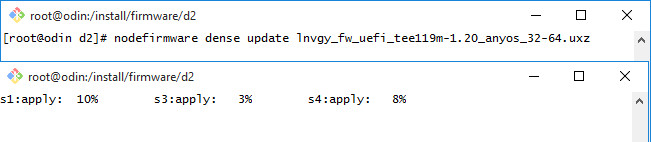
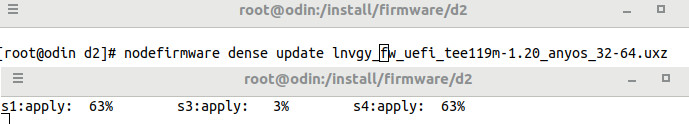
Add some content for the recent function

diff --git a/_posts/2017-10-10-17erelease.md b/_posts/2017-10-10-17erelease.md
@@ -1,9 +1,110 @@
-
 ---
 layout: post
-title:  Confluent 1.7.0
+title:  Recent Confluent Features
 categories: hpc update
 ---
 
-![firmware updates]: {{ "/assets/firmup.jpg" | absolute_url }}
+Confluent has a new discovery mechanism.  This allows for zero-power xCAT style discovery and configuration of lenovo systems.
 
+New to 1.7.0 is the `nodediscover` command:
+```
+mn10:~ # nodediscover list
+           Node|          Model|         Serial|                                UUID|      Mac Address|        Type|                            Current IP Addresses
+---------------|---------------|---------------|------------------------------------|-----------------|------------|------------------------------------------------
+               |               |               |                                    |08:94:ef:3b:de:d4|  lenovo-smm|               fe80::a94:efff:fe3b:ded4%eth0.103
+           n972|     7X12ABC1WW|       00000972|5d09c001-0015-11e7-ac42-f0b2116de94f|08:94:ef:40:77:91|  lenovo-xcc|                                    10.19.67.204
+           n974|     7X12ABC1WW|       00000974|839ab980-ff3d-11e6-9998-c3776b1f3327|08:94:ef:40:78:81|  lenovo-xcc|                                    10.19.67.206
+           n973|     7X12ABC1WW|       00000973|5b767e21-0224-11e7-b141-e0d42e02a772|08:94:ef:40:79:35|  lenovo-xcc|                                    10.19.67.205
+               |     7X12ABC1WW|       00000971|aee7ccee-00cd-11e7-ab9a-f6503ce8c5f9|08:94:ef:40:79:91|  lenovo-xcc|                                    10.19.67.203
+           n881|     7X2106Z000|       00000881|4f2b8ff7-0329-11e7-8af9-e9166c58475d|08:94:ef:40:86:a8|  lenovo-xcc|                                    10.19.67.113
+           n875|     7X2106Z000|       00000875|d0c8c6d8-0260-11e7-9f49-c74a3f22502e|08:94:ef:40:86:b9|  lenovo-xcc|                                    10.19.67.107
+           n879|     7X2106Z000|       00000879|418420a7-0264-11e7-9abe-9abc80ea0f53|08:94:ef:40:86:dd|  lenovo-xcc|                                    10.19.67.111
+           n878|     7X2104Z000|       00000878|6ac9fdd8-0277-11e7-a5d0-f6d9cd5bccb1|08:94:ef:40:87:11|  lenovo-xcc|                                    10.19.67.110
+           n887|     7X2104Z000|       00000872|9746b41f-114d-11e7-b026-efba1952ac2a|08:94:ef:40:87:2d|  lenovo-xcc|  10.19.67.104,fe80::a94:efff:fe40:872d%eth0.103
+           n880|     7X2106Z000|       00000880|aa512271-02d5-11e7-87cb-f0f5d95c9267|08:94:ef:40:88:50|  lenovo-xcc|                                    10.20.67.112
+           n873|     7X2104Z000|       00000873|63b2ab2c-031e-11e7-aefe-d8531125e361|08:94:ef:40:88:89|  lenovo-xcc|  10.19.67.105,fe80::a94:efff:fe40:8889%eth0.103
+          n1050|     7X2106Z000|       DG17000A|89c6f82e-032b-11e7-ac1f-8377fd1aa62c|08:94:ef:40:89:09|  lenovo-xcc|               fe80::a94:efff:fe40:8909%eth0.103
+           n882|     7X2104Z000|       00000882|6b09d40e-0304-11e7-af7e-f3663703a759|08:94:ef:40:89:5d|  lenovo-xcc|                                    10.19.67.114
+           n876|     7X2104Z000|       00000876|828a0a32-0358-11e7-a2c7-c0c2c8ac60e5|08:94:ef:40:89:e9|  lenovo-xcc|                                    10.19.67.108
+          n1051|     7X2106Z000|       DG17000B|9ec10203-0261-11e7-aad9-9c80ee2c78c9|08:94:ef:40:8a:39|  lenovo-xcc|               fe80::a94:efff:fe40:8a39%eth0.103
+           n874|     7X2106Z000|       00000874|d43a6361-033e-11e7-8d7b-d8e30aa8bc5a|08:94:ef:40:8a:49|  lenovo-xcc|                                    10.19.67.106
+```
+
+The nodediscover command can also perform manual discovery, including import from .csv to assign IP addresses:
+
+```
+Usage: nodediscover [list|assign|rescan] [options]
+
+Options:
+  -h, --help            show this help message and exit
+  -m MODEL, --model=MODEL
+                        Operate with nodes matching the specified model number
+  -s SERIAL, --serial=SERIAL
+                        Operate against the system matching the specified
+                        serial number
+  -u UUID, --uuid=UUID  Operate against the system matching the specified UUID
+  -n NODE, --node=NODE  Operate with the given nodename
+  -e MAC, --ethaddr=MAC
+                        Operate against the system with the specified MAC
+                        address
+  -t TYPE, --type=TYPE  Operate against the system of the specified type
+  -c, --csv             Use CSV formatted output
+  -i IMPORT.CSV, --import=IMPORT.CSV
+                        Import bulk assignment data from given CSV file
+```
+
+
+It is now possible to explore the full mac address and LLDP data of ethernet switches, whether they are related to nodes or not::
+
+```
+/ -> show /networking/macs/by-mac/7c-d3-0a-ce-39-0d
+mac: 7c:d3:0a:ce:39:0d
+possiblenode=""
+ports=[
+ {
+  "switch": "172.16.2.6", 
+  "macsonport": 374, 
+  "port": "Port-Channel65"
+ }, 
+ {
+  "switch": "172.16.2.51", 
+  "macsonport": 367, 
+  "port": "Port-Channel53"
+ }, 
+ {
+  "switch": "172.16.2.10", 
+  "macsonport": 1, 
+  "port": "Ethernet37"
+ }
+]
+
+
+/ -> show /networking/neighbors/by-peername/n748/by-peerid/40-f2-e9-c7-82-6e.40-f2-e9-c7-82-6e
+chassisid: a8:97:dc:ed:50:00
+peerchassisid: 40:f2:e9:c7:82:6e
+peerdescription: 
+peerid: 40-f2-e9-c7-82-6e.40-f2-e9-c7-82-6e
+peername: n748
+peerportid: 40-f2-e9-c7-82-6e
+port: 22
+portid: 22
+switch: 172.16.2.51
+verified: False
+```
+
+
+Confluent now reports energy meters on Lenovo System X and ThinkSystem servers:
+
+    [root@odin ~]# nodesensors s1 energy
+    s1: DC Energy: 10.28510 kWh
+
+Confluent can now update firmware of Lenovo XCC managed systems and SMM:
+
+![firmware updates]({{ "/assets/firmup.jpg" | prepend: site.baseurl }})
+
+
+Web GUI stuff...
+(type more stuff)
+
+Fit to screen consoles
+Forward to web interface of unreachable XCCs and others.
